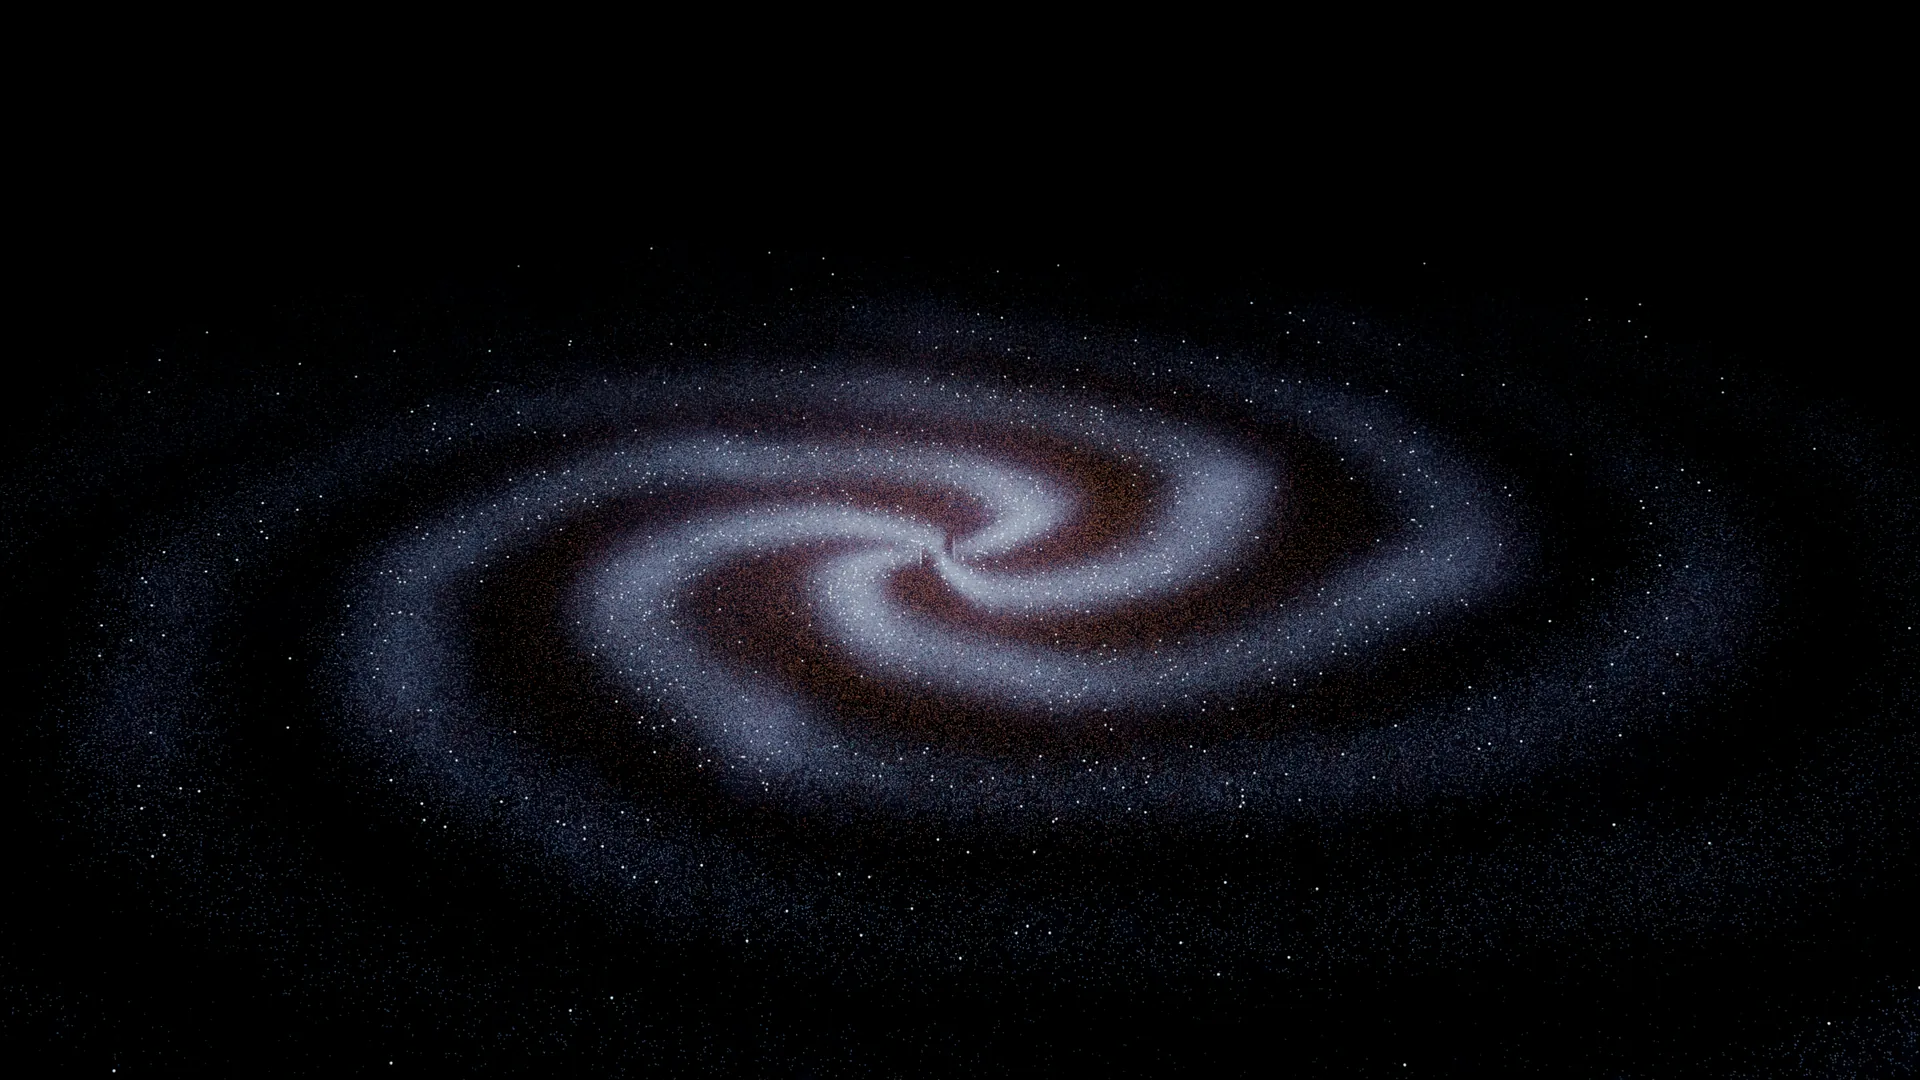
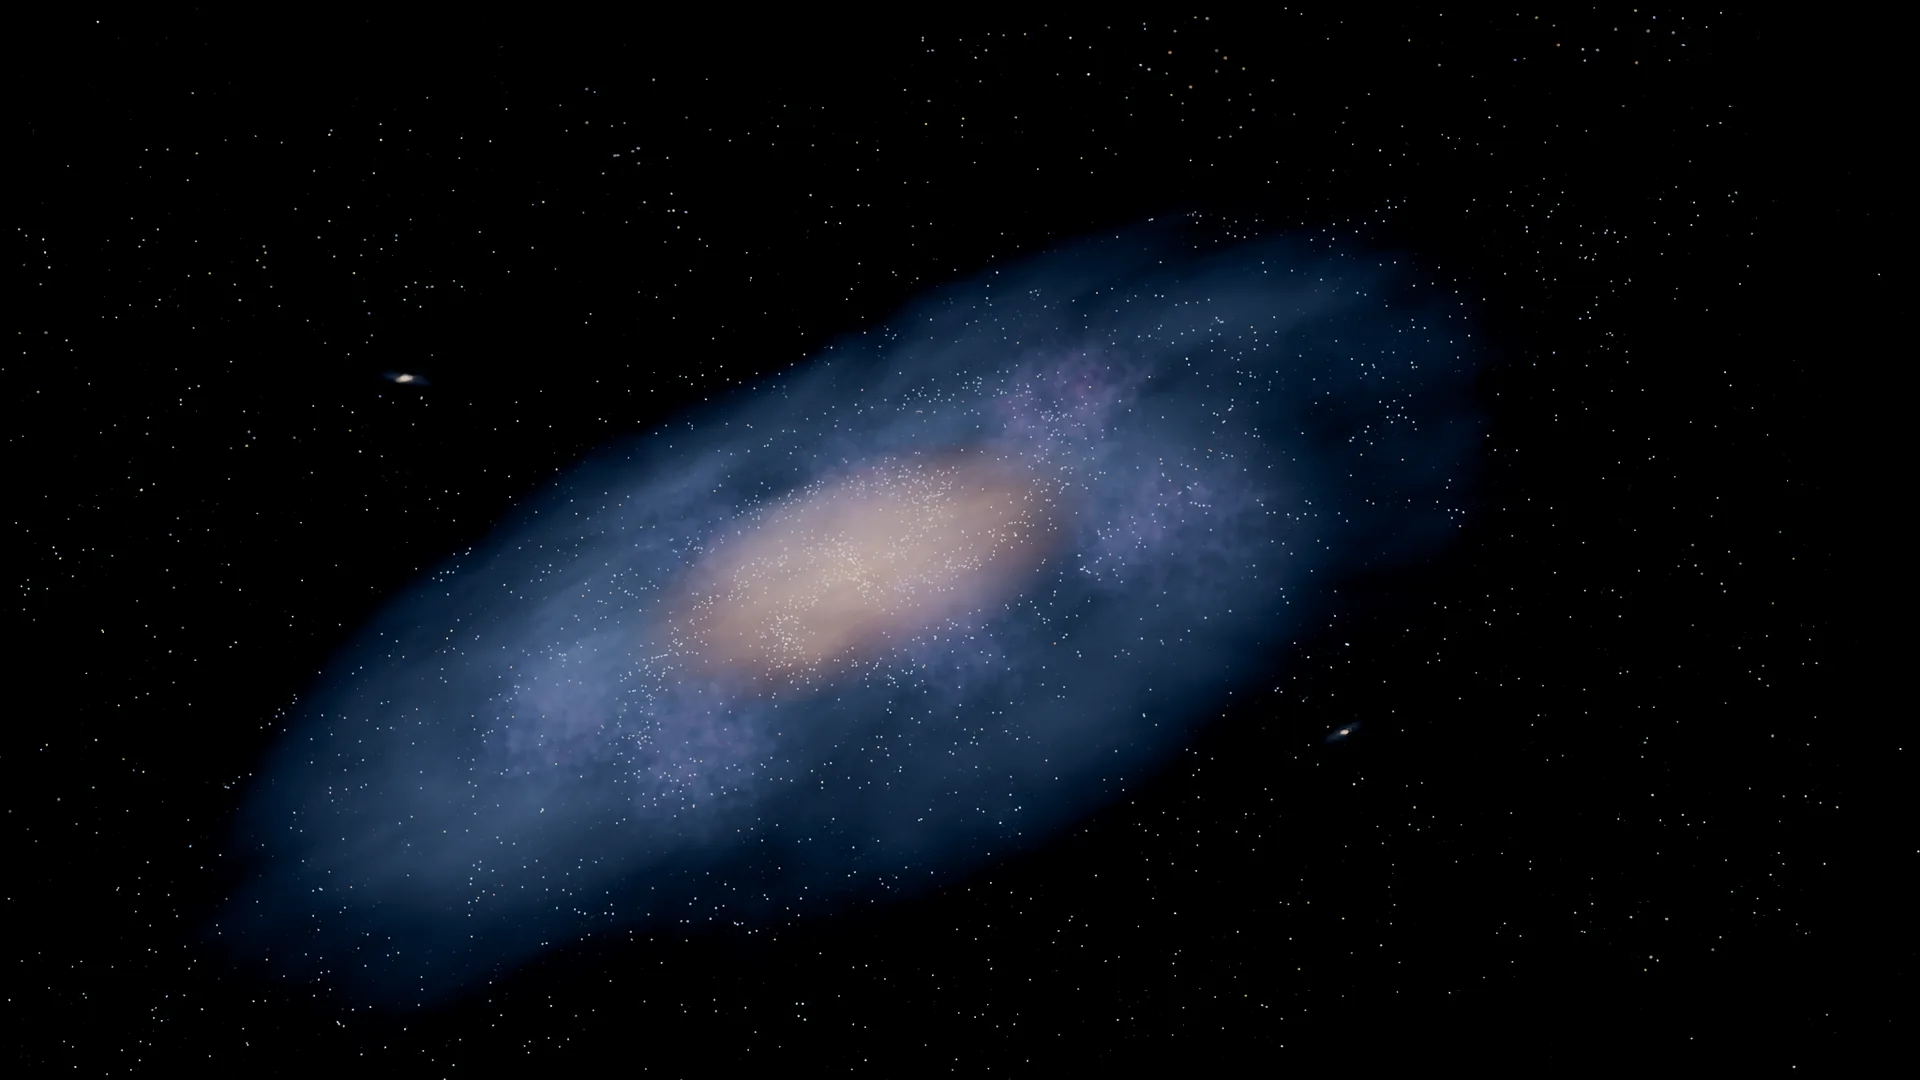
docs: feature final Blender galaxy showcase

diff --git a/README.md b/README.md
@@ -17,13 +17,18 @@
 [![MCP](https://img.shields.io/badge/MCP-2025--03--26-purple.svg)](https://modelcontextprotocol.io/)
 [![License: MIT](https://img.shields.io/badge/License-MIT-yellow.svg)](https://opensource.org/licenses/MIT)
 
-![Cinematic Milky Way rendered through dcc-mcp-blender](docs/images/dcc-mcp-blender-showcase.webp)
+<p align="center">
+  <img src="docs/images/dcc-mcp-blender-showcase.webp"
+       alt="Blender MCP production proof showing a Cycles-rendered galaxy built with Mantaflow nebula volumes, Geometry Nodes particles, PBR materials, render layers, and Compositor finishing"
+       width="960"
+       loading="lazy" />
+</p>
 
-*Built through live `dcc-mcp-blender` calls with 801,400 particles, a baked
-Mantaflow gas cache, native PBR materials, four Cycles view layers, and Blender
-Compositor finishing. The scene incorporates the NASA 3D Resources
-[Crab Nebula model](https://github.com/nasa/NASA-3D-Resources/tree/master/3D%20Printing/Crab%20Nebula);
-NASA identifier and endorsement guidelines apply.*
+*Built through live `dcc-mcp-blender` calls with a baked Mantaflow/OpenVDB
+nebula, Geometry Nodes particles, native PBR materials, four Cycles view layers,
+and Blender Compositor finishing. The subtle Crab Nebula-derived point pass uses
+[NASA 3D Resources](https://github.com/nasa/NASA-3D-Resources/tree/master/3D%20Printing/Crab%20Nebula);
+observe [NASA media usage guidelines](https://www.nasa.gov/nasa-brand-center/images-and-media/).*
 
 ---
 
